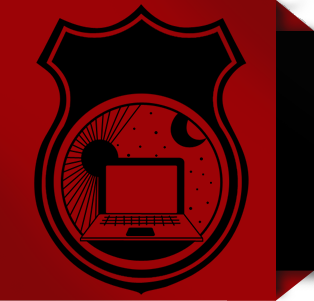
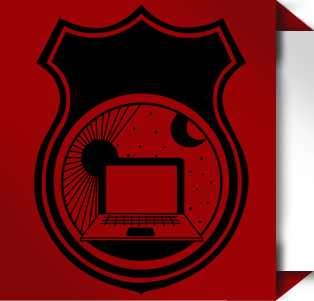
Hackathon title

Changed region(s): [[0.8599, 0.0897, 1.0, 0.9269]]

diff --git a/stylesheets/application.css b/stylesheets/application.css
@@ -54,10 +54,10 @@ h1, h2, h3, h4, h5, h6 {
 #top_stripe {
 	width: 100%;
 	height: 240px;
-	background-color: #000;
 	overflow: visible;
 	-moz-box-shadow: 0 3px 7px rgba(0, 0, 0, 0.2);
 	-webkit-box-shadow: 0 3px 7px rgba(0, 0, 0, 0.2);
+	background-color: #000;
 }
 
 #stripe_content {
@@ -65,11 +65,12 @@ h1, h2, h3, h4, h5, h6 {
 	width: 960px;
 	height: 240px;
 	z-index: 0;
+	background: url(../images/hackathon_title.png) no-repeat;
 }
 
 #logo_fold {
 	position: absolute;
-	margin: -32px 0px 0px 200px;
+	margin: -31px 0px 0px 200px;
 	width: 314px;
 	height: 300px;
 	text-indent: -5000px;
